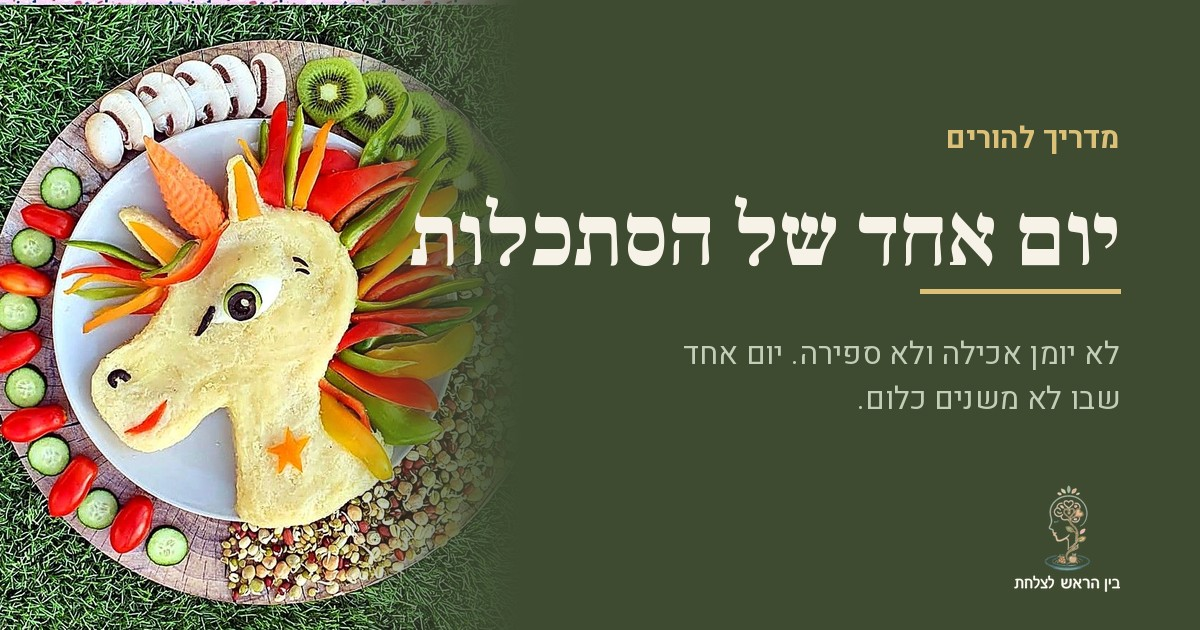
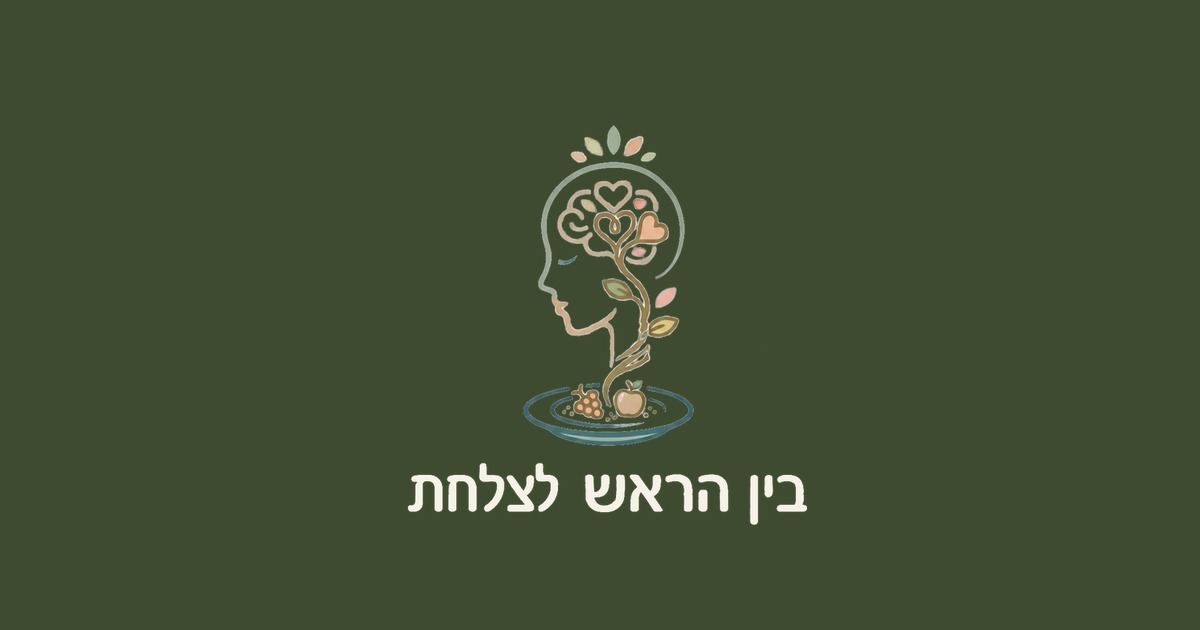
כרטיסיית השיתוף של /one-day: הלוגו בלבד, כמו ב-/menu (#73)
הכרטיסייה הקודמת הייתה תמונת החד-קרן עם כותרת. המבוקש הוא מה
שקיים ב-/menu — הלוגו בלבד. כאן הוא בקרם על רקע הזית.

נוסף --logo-only לתבנית, כדי שאפשר יהיה לייצר את אותה כרטיסייה
לכל מדריך הבא. שאר הכרטיסיות לא נגעו.

Claude-Session: https://claude.ai/code/session_01YK6JrrT1s6ebMPWz6oaJHF

diff --git a/scripts/make-og-card.py b/scripts/make-og-card.py
@@ -27,8 +27,19 @@ GOLD = (0xDC, 0xC0, 0x77)
 MUTE = (0xC3, 0xCD, 0xB8)
 
 
-def build(out, title, sub_lines, eyebrow, photo_name, logo_name):
+def build(out, title, sub_lines, eyebrow, photo_name, logo_name, logo_only=False):
     im = Image.new('RGB', (W, H), OLIVE)
+
+    if logo_only:
+        # the plain brand card: just the logo, centred on the olive ground
+        lg = Image.open(PUBLIC / logo_name).convert('RGBA')
+        lh = 420
+        lg = lg.resize((int(lg.width * lh / lg.height), lh), Image.LANCZOS)
+        im.paste(lg, ((W - lg.width) // 2, (H - lh) // 2), lg)
+        dest = PUBLIC / out
+        im.save(dest, 'JPEG', quality=92, optimize=True)
+        print(f'נוצר {dest}  ({dest.stat().st_size // 1024} KB, לוגו בלבד)')
+        return
 
     if photo_name:
         photo = Image.open(PUBLIC / photo_name).convert('RGB')
@@ -88,11 +99,15 @@ def build(out, title, sub_lines, eyebrow, photo_name, logo_name):
 if __name__ == '__main__':
     ap = argparse.ArgumentParser()
     ap.add_argument('--out', required=True, help='שם הקובץ בתוך public/, למשל og-celiac.jpg')
-    ap.add_argument('--title', required=True, help='כותרת המדריך, שורה אחת')
+    ap.add_argument('--title', default='', help='כותרת המדריך, שורה אחת')
     ap.add_argument('--sub', action='append', default=[], help='שורת תיאור; אפשר לחזור עליה')
     ap.add_argument('--eyebrow', default='מדריך להורים')
     ap.add_argument('--photo', default='food-art-unicorn.jpg',
                     help='תמונה מ-public/; --photo "" לכרטיסייה בלי תמונה')
     ap.add_argument('--logo', default='logo-mark-light.png')
+    ap.add_argument('--logo-only', action='store_true',
+                    help='כרטיסייה של הלוגו בלבד על רקע הזית, בלי תמונה ובלי טקסט')
     a = ap.parse_args()
-    build(a.out, a.title, a.sub, a.eyebrow, a.photo or None, a.logo)
+    if not a.logo_only and not a.title:
+        ap.error('--title נדרש, אלא אם משתמשים ב---logo-only')
+    build(a.out, a.title, a.sub, a.eyebrow, a.photo or None, a.logo, a.logo_only)
